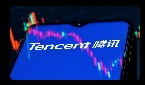
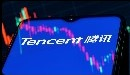
news 3 added

diff --git a/react-app/src/components/News/News.js b/react-app/src/components/News/News.js
@@ -14,7 +14,7 @@ const News = () => {
                             <p id='transparant_me'>Yahoo Finance</p>
                         </div>
                         <div className='news_title'>
-                            <p id='transparant_me'>Musk's reign at Twitter has been chaotic. Don't count him out.</p>
+                            <p id='transparant_me'>Musk's Reign At Twitter Has Been Chaotic. Don't Count Him Out.</p>
                         </div>
                         <div className='news_description'>
                             <p id='transparant_me'>Elon Musk’s takeover of Twitter spurred chaos from the get-go. From bungled mass layoffs, to the launch of a verification system that Twitter halted days after its release, Musk’s first weeks have, rightfully, raised doubts about his ability to run the micro-blogging site.</p>
@@ -36,19 +36,19 @@ const News = () => {
                 <div className='news2'></div>
             </a>
             <br></br>
-            <a className='news_link' href='https://finance.yahoo.com/quote/TSLA/'>
+            <a className='news_link' href='https://www.cnbc.com/2022/11/17/amazon-is-looking-to-trim-headcount-through-a-voluntary-buyout-program.html'>
                 <div className='news_box'>
                     <div className='site_name'>
-                        <p id='transparant_me'>Testing Site Name</p>
+                        <p id='transparant_me'>CNBC</p>
                     </div>
                     <div className='news_title'>
-                        <p id='transparant_me'>Testing Site News Title</p>
+                        <p id='transparant_me'>Amazon Is Looking To Trim Headcount Through A Voluntary Buyout Program</p>
                     </div>
                     <div className='news_description'>
-                        <p id='transparant_me'>Testing Site News Description</p>
+                        <p id='transparant_me'>Amazon is offering voluntary buyouts to some employees inside the company, as it looks for ways to trim its headcount beyond the massive layoffs already underway.</p>
                     </div>
                 </div>
-                <div className='news1'></div>
+                <div className='news3'></div>
             </a>
             <br></br>
             <a className='news_link' href='https://finance.yahoo.com/quote/TSLA/'>
@@ -63,7 +63,7 @@ const News = () => {
                         <p id='transparant_me'>Testing Site News Description</p>
                     </div>
                 </div>
-                <div className='news1'></div>
+                <div className='news4'></div>
             </a>
         </div>
     )

diff --git a/react-app/src/components/News/News.css b/react-app/src/components/News/News.css
@@ -13,8 +13,33 @@
     background-image: url('../images/news_testing_2.jpg');
     background-repeat: no-repeat;
     border: 1px solid rgb(0, 0, 0);
+    border-radius: 15px;
     width: 245px;
-    height: 185px;
+    height: 138px;
+    background-position: center;
+    background-size: contain;
+    margin-bottom: 10px;
+}
+
+.news3 {
+    background-image: url('../images/news_testing_3.jpg');
+    background-repeat: no-repeat;
+    border: 1px solid rgb(0, 0, 0);
+    border-radius: 15px;
+    width: 245px;
+    height: 138px;
+    background-position: center;
+    background-size: contain;
+    margin-bottom: 10px;
+}
+
+.news4 {
+    background-image: url('../images/news_testing_3.jpg');
+    background-repeat: no-repeat;
+    border: 1px solid rgb(0, 0, 0);
+    border-radius: 15px;
+    width: 245px;
+    height: 138px;
     background-position: center;
     background-size: contain;
     margin-bottom: 10px;

diff --git a/react-app/src/components/Stock/singleStock.css b/react-app/src/components/Stock/singleStock.css
@@ -19,6 +19,7 @@
 .header_label {
     border-bottom: 1px groove gray;
     padding-bottom: 5px;
+    padding-top: 3%;
 }
 
 #news_list {
